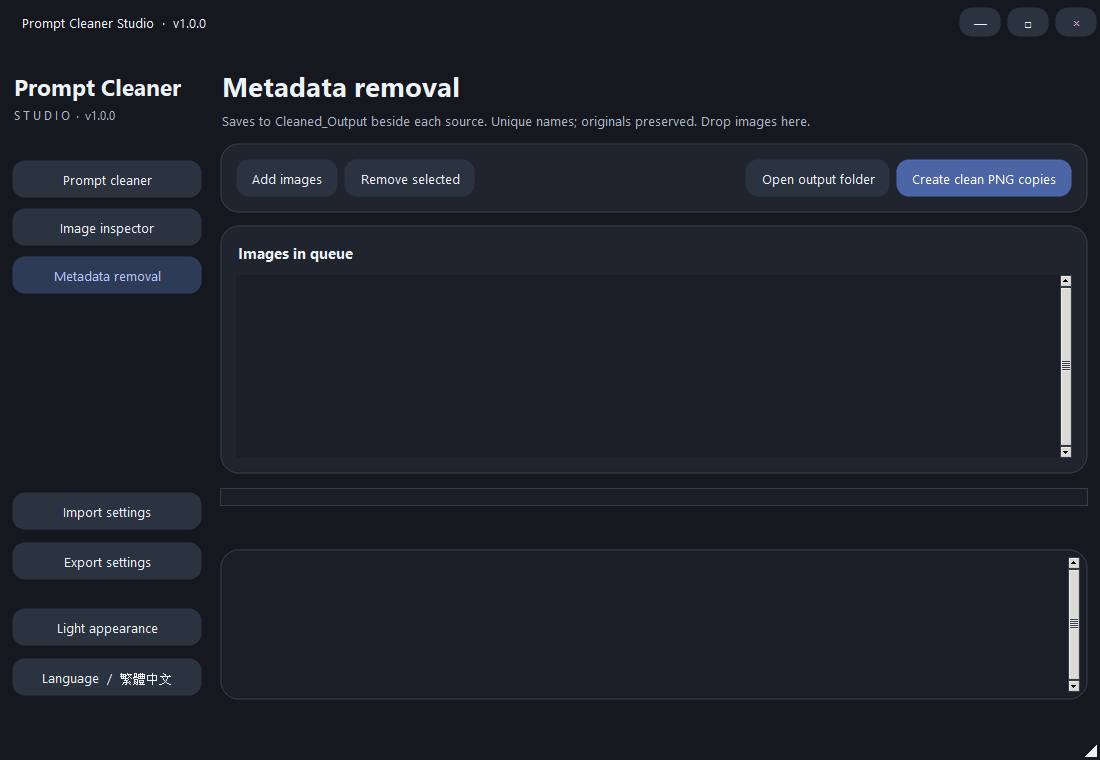
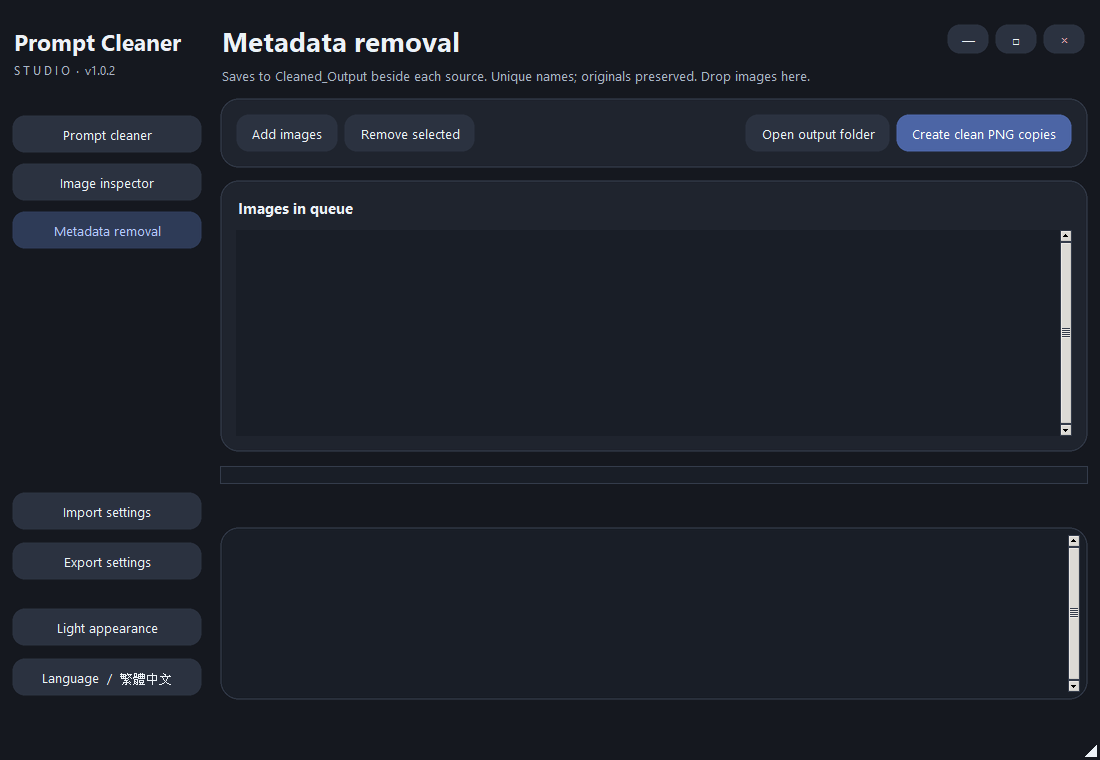
Fix independent Gelbooru filters and compact window header for v1.0.2

diff --git a/app.py b/app.py
@@ -74,7 +74,7 @@ class App:
         self.last_output_dir: Path | None = None
         self.current_page = 0
         self.vars = {k: tk.BooleanVar(value=self.config[k]) for k in asdict(Rules()) if k != 'blacklist'}
-        root.title('Prompt Cleaner Studio v1.0.1')
+        root.title('Prompt Cleaner Studio v1.0.2')
         icon = Path(getattr(sys, '_MEIPASS', Path(__file__).parent)) / 'assets/PromptCleanerStudio.ico'
         if icon.exists(): root.iconbitmap(str(icon))
         self.chrome = WindowChrome(root, self.close)
@@ -87,7 +87,7 @@ class App:
         self.sidebar.pack(side='left', fill='y', padx=(0, 18))
         self.sidebar.pack_propagate(False)
         ttk.Label(self.sidebar, text='Prompt Cleaner', font=('Segoe UI', 17, 'bold')).pack(anchor='w', pady=(24, 2))
-        ttk.Label(self.sidebar, text='S T U D I O  ·  v1.0.1', style='Muted.TLabel', font=('Segoe UI', 9)).pack(anchor='w', pady=(0, 30))
+        ttk.Label(self.sidebar, text='S T U D I O  ·  v1.0.2', style='Muted.TLabel', font=('Segoe UI', 9)).pack(anchor='w', pady=(0, 30))
         self.nav = []
         for index, key in enumerate(('clean_page', 'image_page', 'batch_page')):
             self.nav.append(self.button(self.sidebar, key, lambda i=index: self.switch(i)))
@@ -111,6 +111,7 @@ class App:
         self.nav[0].configure(style='Accent.TButton')
         theme.apply(root, self.config['theme'])
         self.status.configure(text=self.t('ready'))
+        self.chrome.bar.lift()
         self.poll_id = root.after(100, self.poll)
         root.after_idle(self.show_main_window)
 
@@ -151,7 +152,11 @@ class App:
         return text
 
     def heading(self, page: ttk.Frame, key: str, hint: str) -> None:
-        self.label(page, key, style='Title.TLabel').pack(anchor='w', pady=(20, 4))
+        title = self.label(page, key, style='Title.TLabel')
+        title.pack(anchor='w', pady=(20, 4))
+        title.bind('<ButtonPress-1>', self.chrome.start_drag)
+        title.bind('<B1-Motion>', self.chrome.drag)
+        title.bind('<Double-Button-1>', lambda e: self.chrome.toggle_maximize())
         self.label(page, hint, style='Muted.TLabel', wraplength=790).pack(anchor='w', pady=(0, 12))
 
     def build_clean(self) -> None:

diff --git a/window_chrome.py b/window_chrome.py
@@ -28,13 +28,11 @@ class WindowChrome:
         root.geometry(f'{width}x{height}+{max(left, left+(right-left-width)//2)}+{max(top, top+(bottom-top-height)//2)}')
         root.overrideredirect(True)
         self.bar = ttk.Frame(root)
-        self.bar.pack(fill='x')
-        self.title = ttk.Label(self.bar, text='  Prompt Cleaner Studio  ·  v1.0.1', padding=12)
-        self.title.pack(side='left', fill='x', expand=True)
+        self.bar.place(relx=1, x=-12, y=24, anchor='ne')
         for text, command in [('—', self.minimize), ('□', self.toggle_maximize), ('×', close)]:
             RoundedButton(self.bar, text=text, width=42, height=30, command=command,
-                          variant='danger' if text == '×' else 'normal').pack(side='left', padx=3, pady=5)
-        for w in (self.bar, self.title):
+                          variant='danger' if text == '×' else 'normal').pack(side='left', padx=3)
+        for w in (self.bar,):
             w.bind('<ButtonPress-1>', self.start_drag)
             w.bind('<B1-Motion>', self.drag)
             w.bind('<Double-Button-1>', lambda e: self.toggle_maximize())

diff --git a/core.py b/core.py
@@ -118,12 +118,11 @@ def normalized(tag: str) -> str:
 
 def clean(text: str, rules: Rules | None = None) -> Report:
     rules = rules or Rules()
-    # Some booru tag lists use "?" between entries, for example
-    # "? 1girl 9672867? ahoge 942710? barefoot 619974".  Treat it as a
-    # delimiter only when the following entry has a large trailing count;
-    # ordinary question marks and ordinary numeric tags remain untouched.
-    if rules.tag_counts:
-        text = re.sub(r'\?(?=\s*[^?,\r\n]+?\s+\d{5,}(?=\?|$))', ',', text)
+    # Gelbooru copies use a standalone "?" before each tag/count pair, for
+    # example "? 1girl 9676799? ahoge 943224".  Preserve it as a separate
+    # token so the question-mark and trailing-count options work independently.
+    if rules.remove_excl or rules.tag_counts:
+        text = re.sub(r'\?(?=\s*[^?,\r\n]+?\s+\d{5,}(?=\?|$))', ', ?,', text)
     tags, warnings = split_tags(text)
     blocked = {normalized(unweight(t)) for t in split_tags(rules.blacklist)[0]}
     result, removed, seen = [], [], set()

diff --git a/README.md b/README.md
@@ -6,7 +6,7 @@ Windows 桌面工具，為 Stable Diffusion 使用者整理提示詞、檢視圖
 
 ## 下載
 
-[下載 Prompt Cleaner Studio v1.0.1（Windows x64）](https://github.com/kekinai30108/PromptCleanerStudio/releases/download/v1.0.1/PromptCleanerStudio-v1.0.1-windows-x64.zip)
+[下載 Prompt Cleaner Studio v1.0.2（Windows x64）](https://github.com/kekinai30108/PromptCleanerStudio/releases/download/v1.0.2/PromptCleanerStudio-v1.0.2-windows-x64.zip)
 
 下載 ZIP 後解壓縮，直接執行 `PromptCleanerStudio.exe` 即可，不需要安裝 Python。適用於 Windows x64。
 
